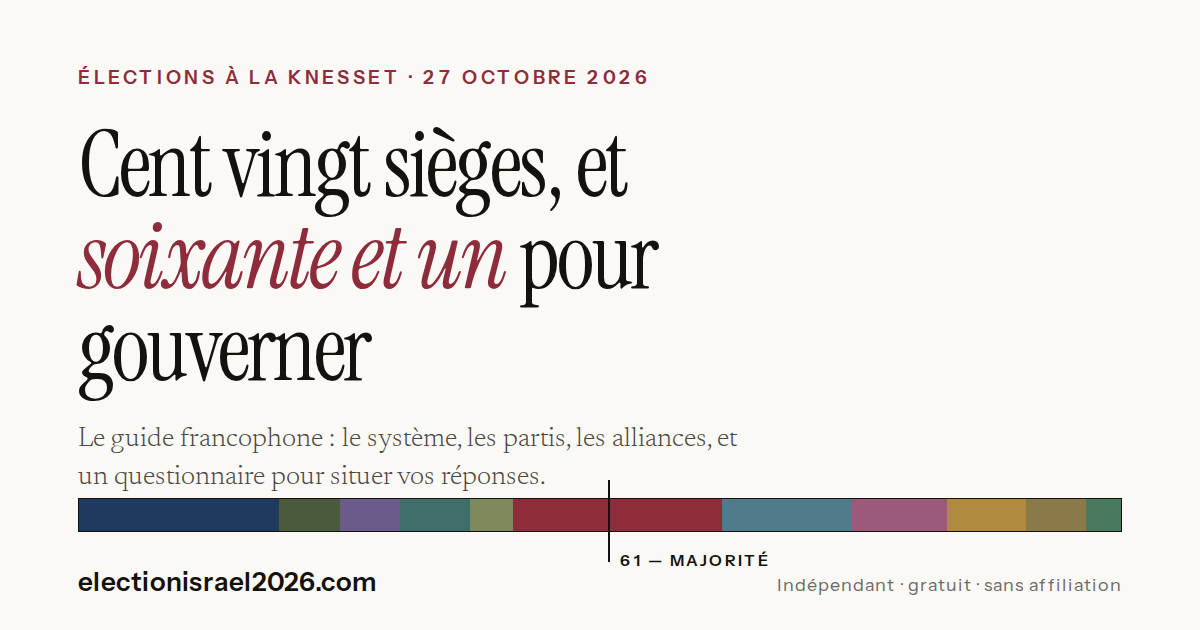
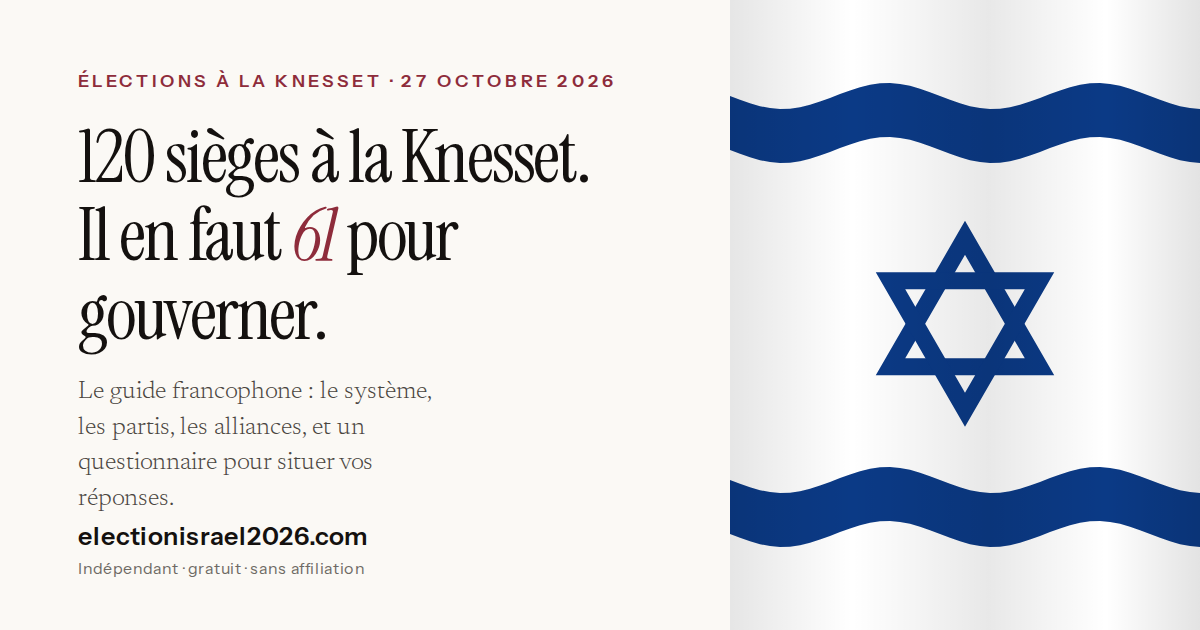
Add files via upload

diff --git a/index.html b/index.html
@@ -7,7 +7,7 @@
 <meta name="description" content="Guide francophone des élections à la Knesset du 27 octobre 2026 : le système, les partis, les alliances encore possibles, un questionnaire de proximité et les emplois du jour du scrutin.">
 <meta property="og:type" content="website">
 <meta property="og:url" content="https://electionisrael2026.com/">
-<meta property="og:title" content="Cent vingt sièges, et soixante et un pour gouverner">
+<meta property="og:title" content="120 sièges à la Knesset. Il en faut 61 pour gouverner.">
 <meta property="og:description" content="Le guide francophone des élections israéliennes du 27 octobre 2026 : le système, les partis, les alliances, et un questionnaire pour situer vos réponses.">
 <meta property="og:image" content="https://electionisrael2026.com/apercu.png">
 <meta property="og:image:width" content="1200">
@@ -15,7 +15,7 @@
 <meta property="og:locale" content="fr_FR">
 <meta property="og:site_name" content="Le scrutin du 27 octobre">
 <meta name="twitter:card" content="summary_large_image">
-<meta name="twitter:title" content="Cent vingt sièges, et soixante et un pour gouverner">
+<meta name="twitter:title" content="120 sièges à la Knesset. Il en faut 61 pour gouverner.">
 <meta name="twitter:description" content="Le guide francophone des élections israéliennes du 27 octobre 2026.">
 <meta name="twitter:image" content="https://electionisrael2026.com/apercu.png">
 <style>
@@ -64,7 +64,7 @@ button{font-family:inherit;color:inherit}
 /* une */
 .une{padding:74px 0 0;text-align:center;border-bottom:1px solid var(--filet)}
 .une .kicker{margin-bottom:26px}
-.une h1{font-family:'Instrument Serif',Georgia,serif;font-size:clamp(46px,7.6vw,94px);line-height:1.03;letter-spacing:-.028em;max-width:15ch;margin:0 auto}
+.une h1{font-family:'Instrument Serif',Georgia,serif;font-size:clamp(40px,7.2vw,88px);line-height:1.06;letter-spacing:-.028em;max-width:20ch;margin:0 auto}
 .une h1 em{font-style:italic;color:var(--claret)}
 .une .chapeau{max-width:63ch;margin:30px auto 0;font-size:21px;line-height:1.58;color:#312d29;font-weight:300}
 .une .signature{margin:30px auto 0;font-family:'Instrument Sans',sans-serif;font-size:12px;letter-spacing:.08em;text-transform:uppercase;color:var(--gris-clair)}
@@ -379,7 +379,7 @@ footer li{margin-bottom:7px}
 <header class="une">
   <div class="wrap">
     <p class="label kicker">Élections à la Knesset · Guide francophone</p>
-    <h1>Cent vingt sièges, et <em>soixante et un</em> pour gouverner</h1>
+    <h1>120 sièges à la Knesset.<br>Il en faut <em>61</em> pour gouverner.</h1>
     <p class="chapeau">
       Une douzaine de listes en lice sérieuse, des noms qu'on ne retient pas, des alliances qui se font
       et se défont en une nuit.
